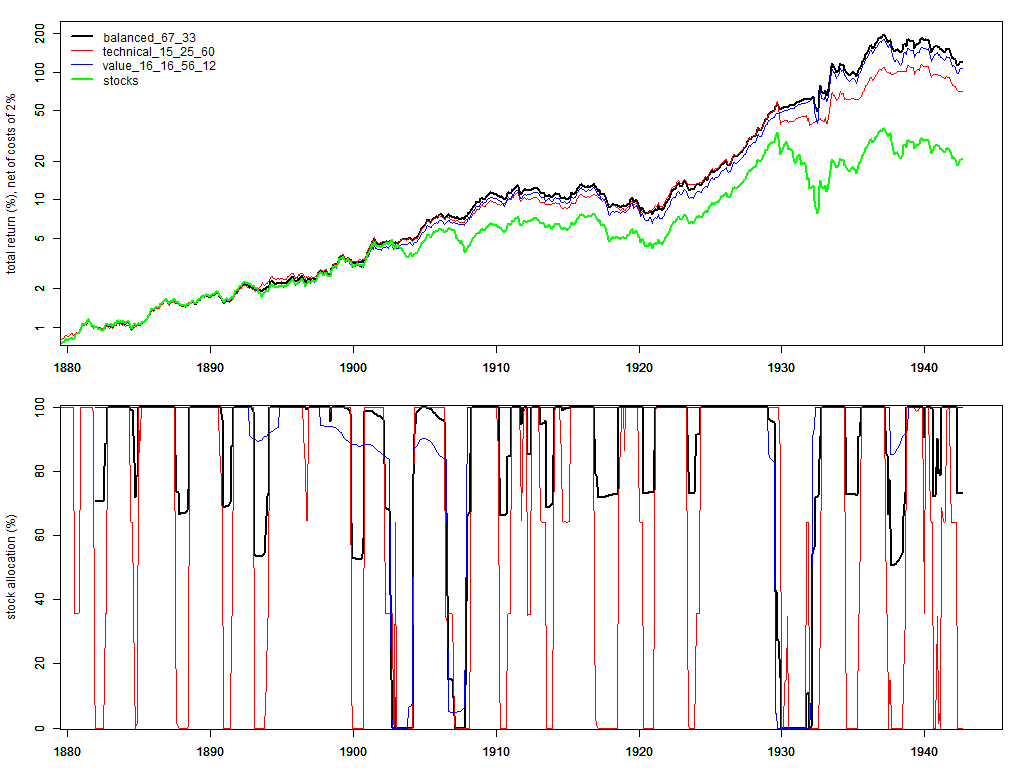
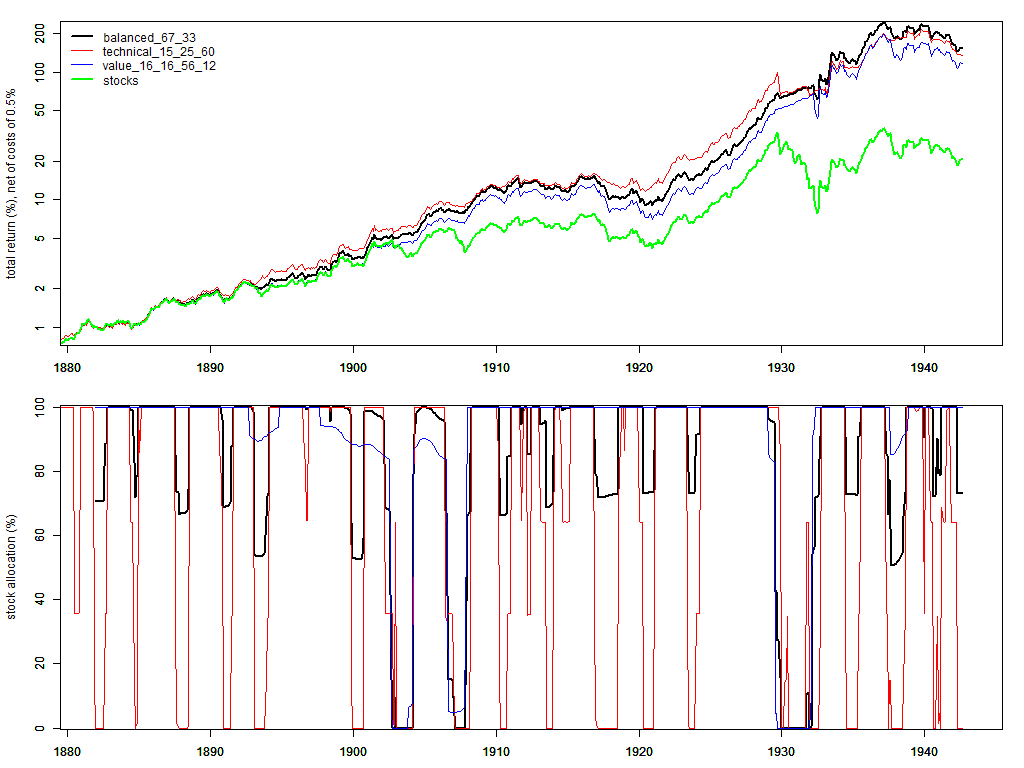
clarified the difference between the two types of costs

diff --git a/README.md b/README.md
@@ -72,7 +72,9 @@ The variable 'tradingCost' is meant to account for direct (and less direct) cost
 - buying and selling assets takes time,
 - strategies that trade often require more sustained attention (even when not actually trading).
 
-'riskAsCost' accounts for the fact that a strategy that trades more is more likely to need up-to-date information (whereas a strategy like CAPE that turns its portfolio once in a decade can afford to use data that are a month old), and in historical testing it is not always easy to tell what precise information was available at the time -- so we penalize heavy-trading strategies because of the extra risk, not just the extra cost.
+'riskAsCost' accounts for the fact that a strategy that trades more is more likely to need up-to-date information (whereas a strategy like CAPE that turns its portfolio once in a decade can afford to use data that are a month old), and in historical testing it is not always easy to tell what precise information was available at the time -- so we penalize heavy-trading strategies because of the extra risk, not just the extra cost. 
+
+Since the latter is not an actual cost, it is used only in the parameter search. When plotting the results, only 'tradingCost' is included.
 
 
 ## Combining strategies
